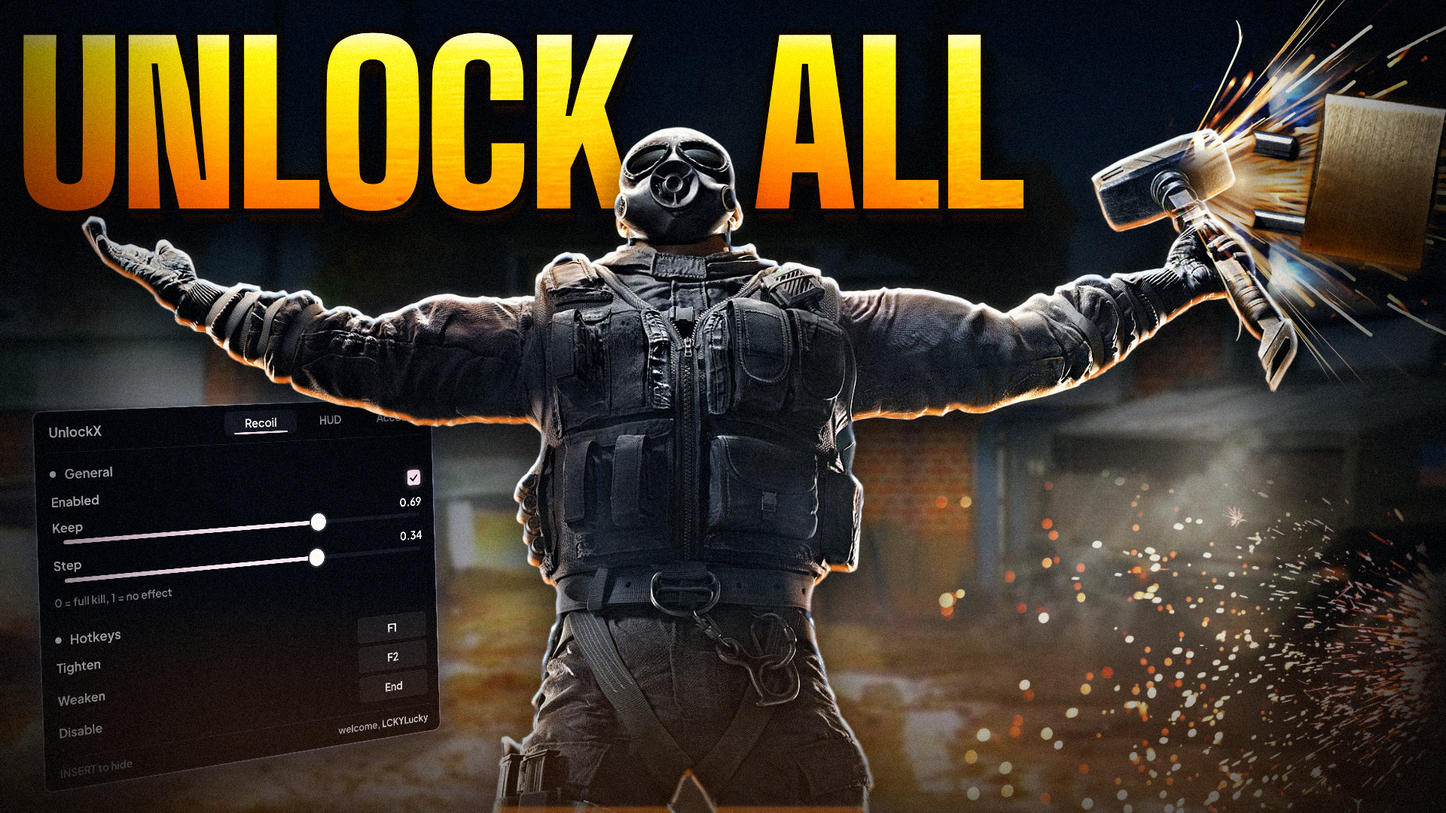
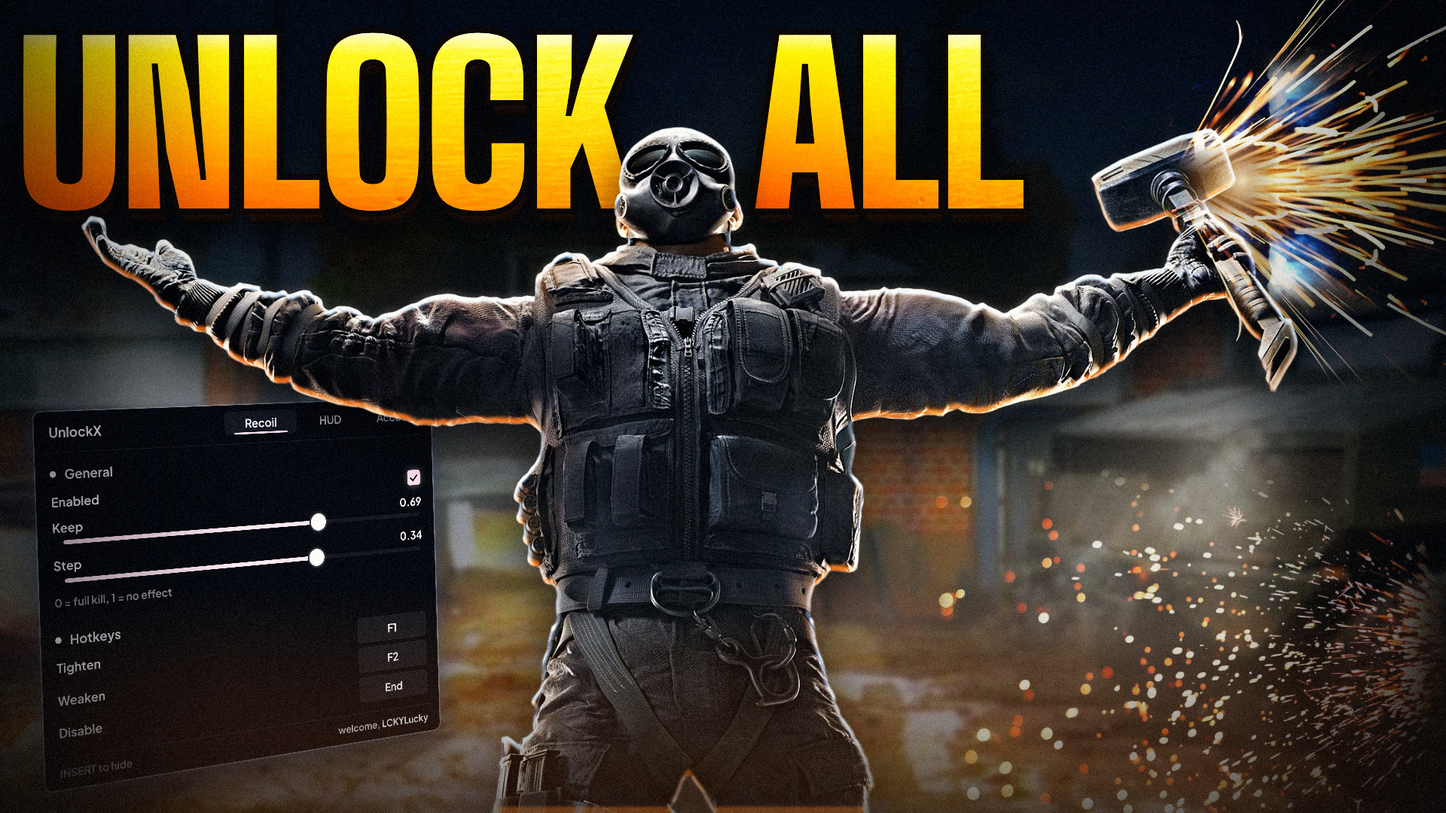
R6 thumbnail: take the padlock out, keep the sparks off the hammer

Changed region(s): [[0.8438, 0.0917, 1.0, 0.3667]]

diff --git a/marketing/yt-r6-unlock-all/thumb.html b/marketing/yt-r6-unlock-all/thumb.html
@@ -62,10 +62,7 @@ body { background: #000; }
 /* 4. Sledge */
 .sledge { left: 80px; top: 141px; width: 1680px; filter: drop-shadow(0 22px 34px rgba(0, 0, 0, .7)); }
 
-/* 5. the lock he just broke, and the sparks */
-.lock { left: 1649px; top: 104px; width: 310px; transform: rotate(-32deg);
-  filter: contrast(1.18) saturate(1.15) drop-shadow(0 0 2px rgba(0, 0, 0, .95)) drop-shadow(-5px 0 8px rgba(255, 150, 40, .75))
-    drop-shadow(0 18px 22px rgba(0, 0, 0, .8)); }
+/* 5. sparks off the hammer face */
 .burst { left: 1538px; top: -45px; width: 560px; transform: scaleX(-1); mix-blend-mode: screen; }
 .burst2 { left: 1538px; top: 55px; width: 560px; transform: scale(-1, -1); mix-blend-mode: screen; opacity: .75; }
 .flash { left: 1560px; top: 150px; width: 180px; height: 180px; border-radius: 50%; mix-blend-mode: screen;
@@ -119,7 +116,6 @@ body { background: #000; }
   <img class="burst" src="img/sparks-burst.jpg">
   <img class="burst2" src="img/sparks-burst.jpg">
   <div class="flash"></div>
-  <img class="lock" src="img/padlock.png">
   <img class="embers" src="img/sparks-fall.jpg">
 
   <div class="warm"></div>

diff --git a/marketing/yt-r6-unlock-all/prep.py b/marketing/yt-r6-unlock-all/prep.py
@@ -61,38 +61,8 @@ mp = Image.open('src/house-map.jpg').convert('RGB')
 mp = mp.resize((round(mp.width * 1080 / mp.height), 1080), Image.LANCZOS)
 save(blur(np.asarray(mp).astype(np.float32) / 255, 3.5), 'img/map.jpg', quality=92)
 
-# Padlock: the brass lock from the photo with its shackle sheared where it crossed the CD. The CD and the key go.
-pl = load('src/padlock-photo.jpg')
-pm = load('src/padlock-mask.png', 'L')
-M = pm > .5
-r = 26
-disk = (np.add.outer(np.arange(-r, r + 1) ** 2, np.arange(-r, r + 1) ** 2) <= r * r)
-O = ndi.binary_opening(M, disk)
-lab, _ = ndi.label(O)
-cd = ndi.binary_dilation(lab == lab[200, 200], iterations=3)
-H, W = M.shape
-yy, xx = np.mgrid[:H, :W]
-# key side: the body's lower right edge runs from (970, 446) to (771, 682); keep the side the body centre is on
-(x1, y1), (x2, y2) = (970, 446), (771, 682)
-side = (x2 - x1) * (yy - y1) - (y2 - y1) * (xx - x1)
+# Brushed brass from the body of a padlock photo, turned so the brush lines run across; it fills the title.
 cx, cy = 800, 470
-keep_sign = np.sign((x2 - x1) * (cy - y1) - (y2 - y1) * (cx - x1))
-half = side * keep_sign > -4 * np.hypot(x2 - x1, y2 - y1)
-lab2, n = ndi.label(M & ~cd & half)
-body = lab2 == lab2[cy, cx]
-near = ndi.binary_dilation(body, iterations=45)
-keep = body.copy()
-for i in range(1, n + 1):                                   # the free end of the shackle stands just off the body
-    c = lab2 == i
-    if c.sum() > 400 and (c & near).any():
-        keep |= c
-region = blur(keep.astype(np.float32), .8)
-a = pm * region
-ys, xs = np.nonzero(a > .02)
-b = (xs.min() - 4, ys.min() - 4, xs.max() + 5, ys.max() + 5)
-save(np.dstack([pl, a])[b[1]:b[3], b[0]:b[2]], 'img/padlock.png')
-
-# Brushed brass from the lock body, turned so the brush lines run across; it fills the title.
 br = Image.open('src/padlock-photo.jpg').convert('RGB').rotate(-40, center=(cx, cy), resample=Image.BICUBIC)
 br = br.crop((cx - 95, cy - 70, cx + 95, cy + 70)).resize((1900, 700), Image.BICUBIC)
 br.save('img/brass.jpg', quality=92)

diff --git a/marketing/yt-r6-unlock-all/README.md b/marketing/yt-r6-unlock-all/README.md
@@ -3,8 +3,6 @@
 A 1920×1080 thumbnail for the UnlockX menu video, built from the centre-hero layout (concept C of the three I pitched).
 Upload `out/r6-unlock-all.jpg` (YouTube takes thumbnails up to 2 MB); `out/r6-unlock-all.png` is the lossless copy.
 
-The idea: Sledge opens doors with his hammer in the game, so here he has just sheared a padlock off with it.
-
 ## Layers, back to front
 
 1. The House map painting, scaled to 1080 px high and softened (the source is only 766 px wide), graded to dusk.
@@ -18,8 +16,8 @@ The idea: Sledge opens doors with his hammer in the game, so here he has just sh
    in front of its top edge and the torso hides the Account tab.
 4. Sledge, cut from the key art, sharpened, with a cold rim from the floodlights on his top edges and a warm one from
    the map on the undersides of his arms.
-5. The brass padlock with its shackle sheared, both stubs pointing back at the hammer face. Welding sparks burst from
-   the point of contact, and saw sparks fly in at the bottom right.
+5. Welding sparks burst off the hammer face, and saw sparks fly in at the bottom right. (A broken padlock flew off the
+   hammer in the first draft; it looked odd and came out.)
 6. `finish.py`: a gentle S curve, cooler shadows and warmer highlights, a little more saturation where there is colour
    already, and about 2.5 % mono grain.
 
@@ -52,6 +50,6 @@ name can go on the hero's gear.
 ## Sources
 
 - Sledge key art, the House map painting and the menu screenshot came with the brief.
-- Padlock: rawpixel, CC0 (photo px936843). Welding sparks: rawpixel, "Welder Sparks", CC0. Saw sparks: StockSnap,
+- Brass texture in the title: a padlock photo on rawpixel, CC0 (px936843). Welding sparks: rawpixel, "Welder Sparks", CC0. Saw sparks: StockSnap,
   "Sparks Saw" (DC05713422), CC0.
 - Fonts: Big Shoulders Display and Plus Jakarta Sans, SIL Open Font License, from Google Fonts.
